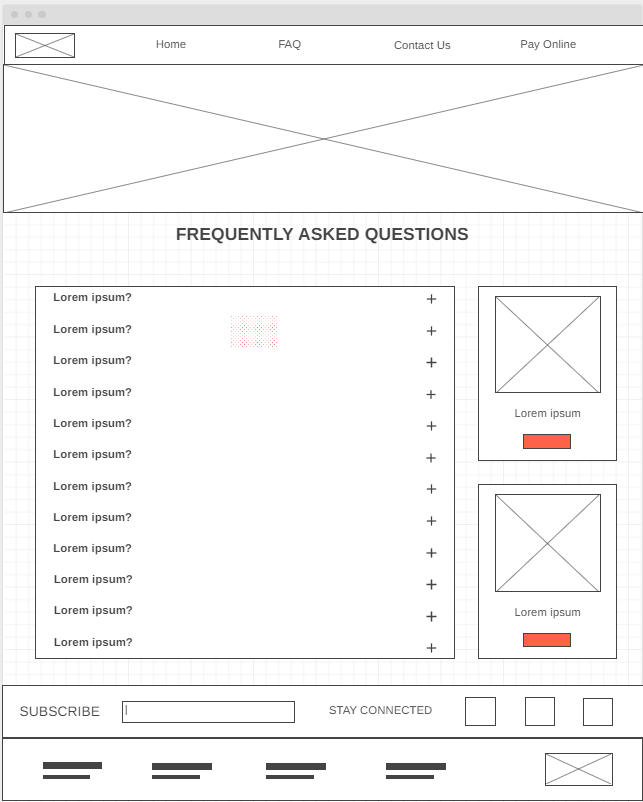
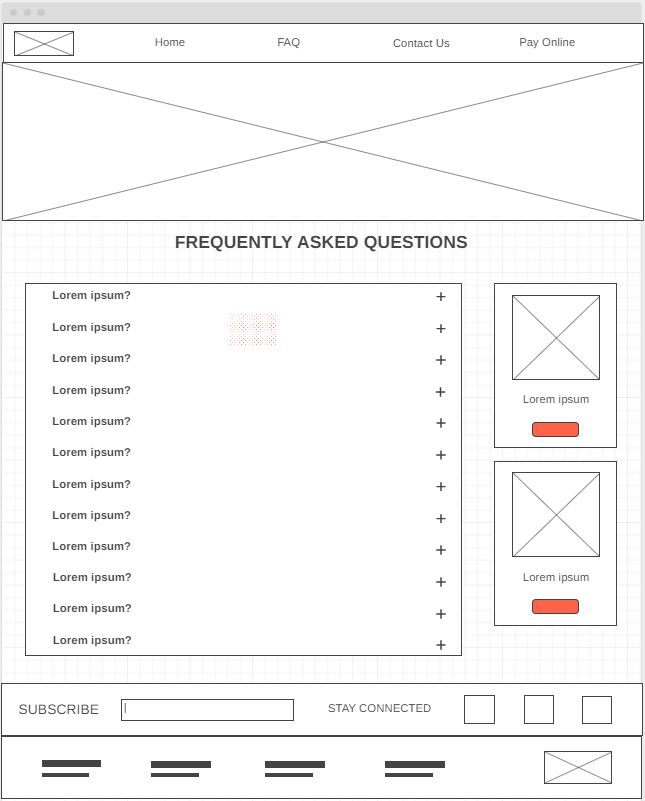
FAQ page good. Needs validation

diff --git a/wdd130/self-storage/sit_plan.css b/wdd130/self-storage/sit_plan.css
@@ -259,6 +259,16 @@ height: 50%;
   align-items: center;
   padding: 10px;
 }
+footer h3:hover {
+  color: var(--nav-hover-link-color);
+  background-color: var(--nav-hover-background-color);
+}
+footer a:visited{
+  color: var(--primary-color);
+}
+footer a:hover{
+  color: white;
+}
 
 .bottom_footer h3{
   padding: 15px;
@@ -361,9 +371,12 @@ height: 50%;
   text-align: center;
   width: 70%;
   max-height: 350px;
-
-
 }
+.house h3, .tools h3, .warehouse h3 {
+  color: var(--secondary-color);
+  font-weight: 900;
+}
+
 .ad{
   /* color: var(--accent2-color); */
   padding-top: 30px;
@@ -477,7 +490,7 @@ td, th{
   color: #444;
   cursor: pointer;
   padding: 18px;
-  width: 80%;
+  width: 90%;
   border: none;
   text-align: left;
   outline: none;
@@ -509,7 +522,7 @@ td, th{
   max-height: 0;
   overflow: hidden;
   transition: max-height 0.2s ease-out;
-  width: 80%;
+  width: 90%;
   margin: 0 auto;
   font-family: var(--paragraph-font);
   text-align: left;
@@ -522,8 +535,8 @@ td, th{
 .faq_accordion{
   margin-bottom: 50px;
   margin-top: 20px;
-  grid-row: 2;
-  grid-column: 1/12;
+  /* grid-row: 2; */
+  grid-column: 1/3;
 }
 #googleMap{
   width:90%;
@@ -584,16 +597,16 @@ td, th{
   height: 20%;
 }
 #quick_box{
-  display: grid;
+  /* display: grid; */
   margin-bottom: 50px;
   margin-top: 20px;
 }
 #quick_box  div{
-  width: 250px;
+  width: 200px;
   background-color: var(--primary-color);
   grid-column: 10/13;
   max-height: 300px;
-
+  margin-right: 10px;
 }
 #quick_box button{
   background-color: var(--secondary-color);
@@ -622,7 +635,7 @@ td, th{
 }
 .faq {
   display: grid;
-  grid-template-columns: 1fr 1fr 1fr 1fr 1fr 1fr 1fr 1fr 1fr 1fr 1fr 1fr;
+  grid-template-columns: 5fr 5fr 2fr;
   grid-template-rows: 90px 6fr;
 }
 .list p{

diff --git a/wdd130/self-storage/site_plan.html b/wdd130/self-storage/site_plan.html
@@ -222,21 +222,21 @@ Yes. 10% off your monthly price for both student and military.
       <p>         
         The Large empty box on the bottom of the page will be a table that includes the dimensions, unit details, price, and some kind of link (Rent now/Call now).
       </p>
-      <img src="images\index_wireframe.png" alt="home page wireframe">
+      <img src="images/index_wireframe.png" alt="home page wireframe">
       <a href="https://wireframe.cc/Bt8e3i">https://wireframe.cc/Bt8e3i</a>
 
       <h3>FAQ</h3>
       <p>         
-        All FAQs in two colunms 
+        All FAQs in accordion with 2 action boxes on the right.
       </p>
-      <img src="images\FAQ_wireframe.png" alt="page 2 (faq) wireframe">
+      <img src="images/faq_new_wireframe.png" alt="page 2 (faq) wireframe">
       <a href="https://wireframe.cc/wR2isC">https://wireframe.cc/wR2isC</a>
 
       <h3>Contact us</h3>
       <p>         
         Large, mostly solid color background on whole page along with forms of contact with an icon.
       </p>
-      <img src="images\Contact us wireframe.png" alt="page 3 (contact us) wireframe">
+      <img src="images/Contact us wireframe.png" alt="page 3 (contact us) wireframe">
       <a href="https://wireframe.cc/mRVOhw">https://wireframe.cc/mRVOhw</a>
     </main>
   </body>

diff --git a/wdd130/self-storage/index.html b/wdd130/self-storage/index.html
@@ -195,7 +195,8 @@ An HTML table may also include <caption>, <colgroup>, <thead>, <tfoot>, and <tbo
         </div>
         <div class="bottom_footer">
             <h3><a href="#">Rent Now</a></h3>
-            <h3><a href="#">About Us</a></h3>            <h3><a href="contact_us.html">Contact Us</a></h3>
+            <h3><a href="#">About Us</a></h3>           
+            <h3><a href="contact_us.html">Contact Us</a></h3>
             <h3><a href="site_plan.html">Site Plan</a></h3>
             <a class="footer_logo" href="index.html">
                 <img class="footer_logo" src="images/ss_logo_3.0.png" alt="logo">
